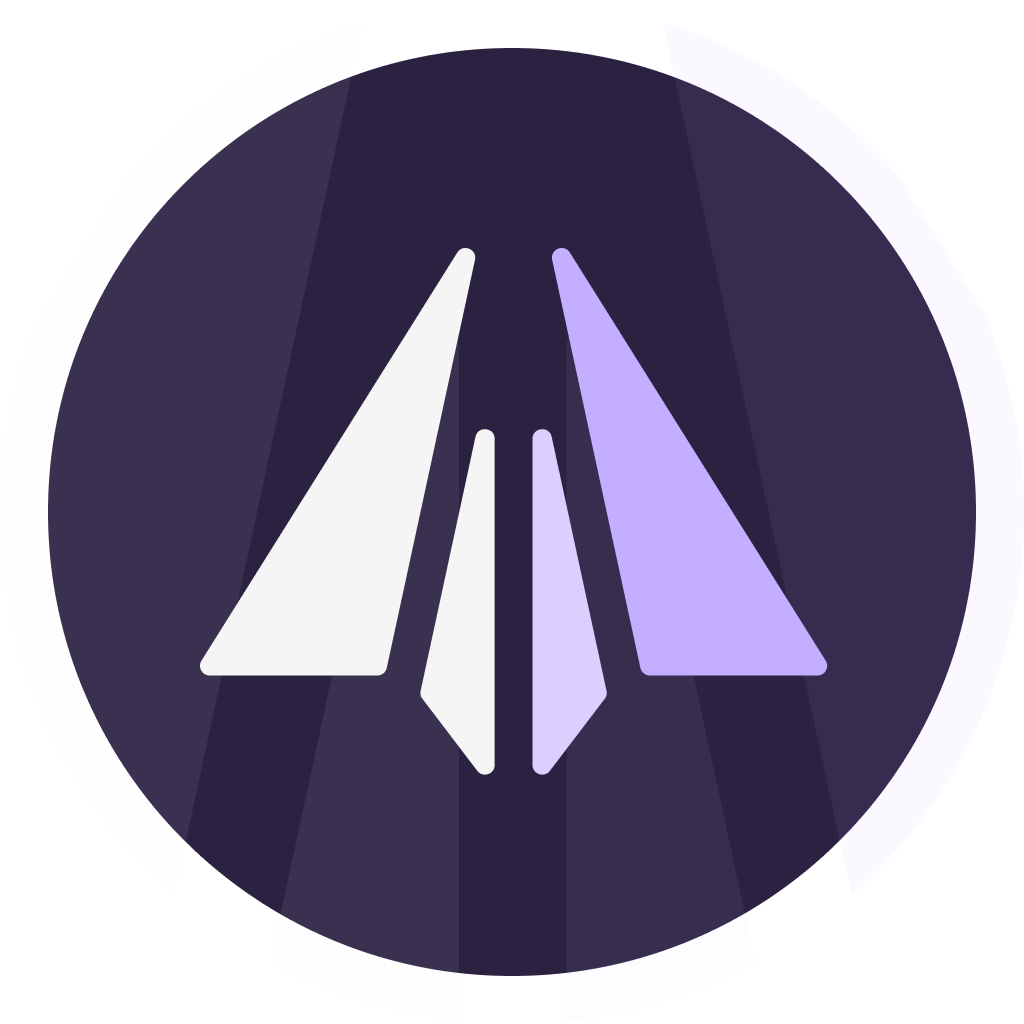
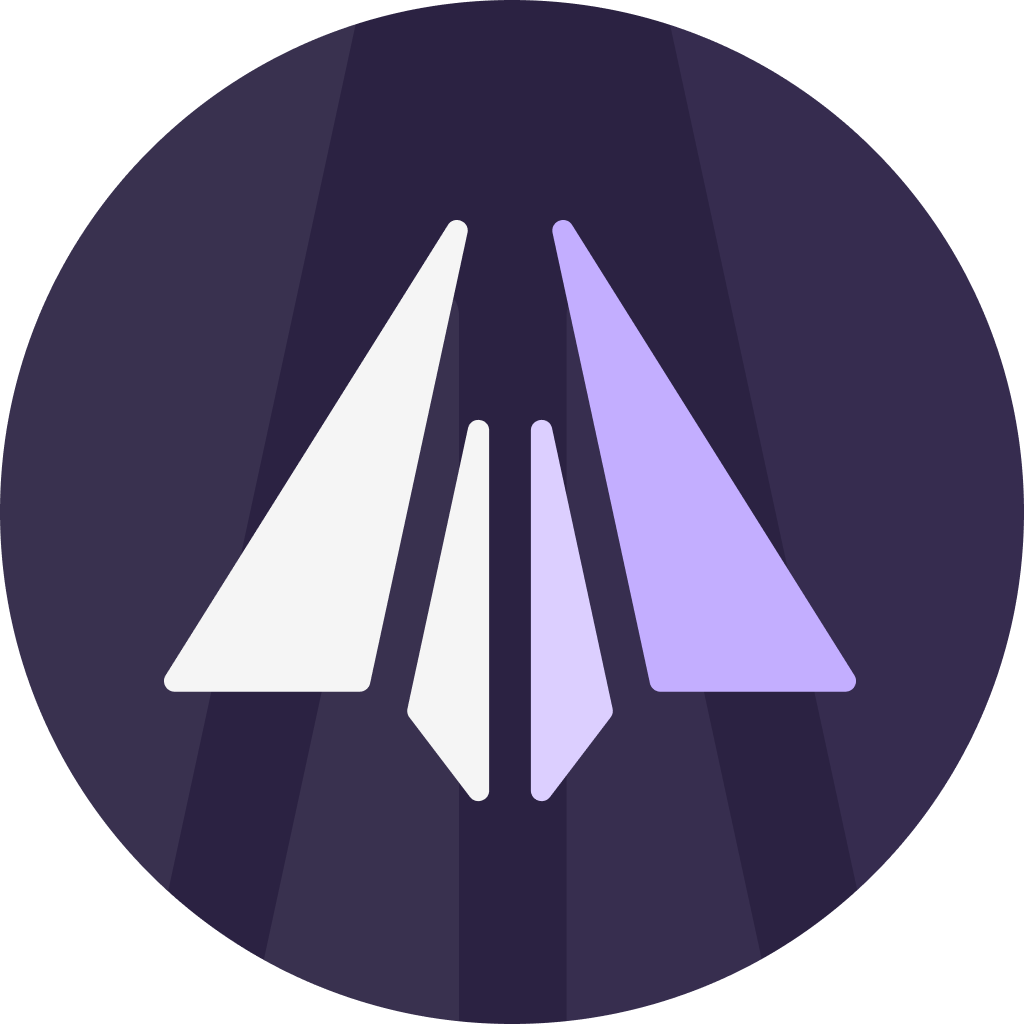
fix: taskbar on Windows fix: more branding fix: smth

diff --git a/Telegram/SourceFiles/ayu/ui/ayu_assets.cpp b/Telegram/SourceFiles/ayu/ui/ayu_assets.cpp
@@ -8,9 +8,25 @@
 #include "ayu_assets.h"
 #include "ayu/ayu_settings.h"
 
-QString LAST_LOADED_NAME;
-QImage LAST_LOADED;
-QImage LAST_LOADED_NO_MARGIN;
+static QString LAST_LOADED_NAME;
+static QImage LAST_LOADED;
+static QImage LAST_LOADED_NO_MARGIN;
+
+void loadAppIco() {
+	auto settings = &AyuSettings::getInstance();
+
+	QString appDataPath = QDir::fromNativeSeparators(qgetenv("APPDATA"));
+	QString tempIconPath = appDataPath + "/AyuGram.ico";
+
+	// workaround for read-only file
+	auto f = QFile(tempIconPath);
+	if (f.exists()) {
+		f.setPermissions(QFile::WriteOther);
+		f.remove();
+	}
+	f.close();
+	QFile::copy(qsl(":/gui/art/ayu/%1/logo256_no_margin.ico").arg(settings->appIcon), tempIconPath);
+}
 
 void loadIcons()
 {
@@ -18,57 +34,25 @@ void loadIcons()
 	if (LAST_LOADED_NAME != settings->appIcon)
 	{
 		LAST_LOADED_NAME = settings->appIcon;
-		if (settings->appIcon == AyuSettings::DEFAULT_ICON)
-		{
-			LAST_LOADED = logo();
-			LAST_LOADED_NO_MARGIN = logoNoMargin();
-		}
-		else if (settings->appIcon == AyuSettings::ALT_ICON)
-		{
-			LAST_LOADED = logoAlt();
-			LAST_LOADED_NO_MARGIN = logoAltNoMargin();
-		}
-		else if (settings->appIcon == AyuSettings::NOTHING_ICON)
-		{
-			LAST_LOADED = logoNothing();
-			LAST_LOADED_NO_MARGIN = logoNothingNoMargin();
-		}
-		else
-		{
-			LAST_LOADED = logo();
-			LAST_LOADED_NO_MARGIN = logoNoMargin();
-		}
+
+		LAST_LOADED = QImage(qsl(":/gui/art/ayu/%1/logo256.png").arg(settings->appIcon));
+		LAST_LOADED_NO_MARGIN = QImage(qsl(":/gui/art/ayu/%1/logo256_no_margin.png").arg(settings->appIcon));
 	}
 }
 
-QImage logo()
+QImage logoPreview()
 {
-	return QImage(qsl(":/gui/art/logo_256.png"));
+	return QImage(qsl(":/gui/art/ayu/default/logo256.png"));
 }
 
-QImage logoNoMargin()
-{
-	return QImage(qsl(":/gui/art/logo_256_no_margin.png"));
-}
-
-QImage logoAlt()
+QImage logoAltPreview()
 {
 	return QImage(qsl(":/gui/art/ayu/alt/logo256.png"));
 }
 
-QImage logoAltNoMargin()
-{
-	return QImage(qsl(":/gui/art/ayu/alt/logo256_no_margin.png"));
-}
-
-QImage logoNothing()
+QImage logoNothingPreview()
 {
 	return QImage(qsl(":/gui/art/ayu/nothing/logo256.png"));
-}
-
-QImage logoNothingNoMargin()
-{
-	return QImage(qsl(":/gui/art/ayu/nothing/logo256_no_margin.png"));
 }
 
 QString currentAppLogoName()

diff --git a/Telegram/SourceFiles/ayu/ui/settings/icon_picker.cpp b/Telegram/SourceFiles/ayu/ui/settings/icon_picker.cpp
@@ -9,12 +9,17 @@
 #include "ayu/ayu_settings.h"
 #include "core/application.h"
 #include "styles/style_layers.h"
+#include "tray.h"
 
 #include "ayu/ui/ayu_assets.h"
 #include "main/main_domain.h"
 #include "styles/style_ayu_styles.h"
 #include "ui/painter.h"
 #include "window/main_window.h"
+
+#ifdef Q_OS_WIN
+#include "ayu/utils/windows_utils.h"
+#endif
 
 void drawIcon(QPainter& p, const QImage& icon, int offset, bool selected)
 {
@@ -40,9 +45,9 @@ void IconPicker::paintEvent(QPaintEvent* e)
 	Painter p(this);
 	PainterHighQualityEnabler hq(p);
 
-	auto icon1 = logo().scaled(64, 64, Qt::KeepAspectRatio, Qt::SmoothTransformation);
-	auto icon2 = logoAlt().scaled(64, 64, Qt::KeepAspectRatio, Qt::SmoothTransformation);
-	auto icon3 = logoNothing().scaled(64, 64, Qt::KeepAspectRatio, Qt::SmoothTransformation);
+	auto icon1 = logoPreview().scaled(64, 64, Qt::KeepAspectRatio, Qt::SmoothTransformation);
+	auto icon2 = logoAltPreview().scaled(64, 64, Qt::KeepAspectRatio, Qt::SmoothTransformation);
+	auto icon3 = logoNothingPreview().scaled(64, 64, Qt::KeepAspectRatio, Qt::SmoothTransformation);
 
 	// todo: center
 	drawIcon(p, icon1, 0, currentAppLogoName() == AyuSettings::DEFAULT_ICON);
@@ -76,8 +81,14 @@ void IconPicker::mousePressEvent(QMouseEvent* e)
 	{
 		AyuSettings::save();
 
+#ifdef Q_OS_WIN
+		loadAppIco();
+		reloadAppIconFromTaskBar();
+#endif
+
 		Window::OverrideApplicationIcon(currentAppLogo());
 		Core::App().refreshApplicationIcon();
+		Core::App().tray().updateIconCounters();
 		Core::App().domain().notifyUnreadBadgeChanged();
 
 		repaint();

diff --git a/Telegram/SourceFiles/ayu/utils/windows_utils.cpp b/Telegram/SourceFiles/ayu/utils/windows_utils.cpp
@@ -1,0 +1,46 @@
+// This is the source code of AyuGram for Desktop.
+//
+// We do not and cannot prevent the use of our code,
+// but be respectful and credit the original author.
+//
+// Copyright @Radolyn, 2023
+#include "windows_utils.h"
+
+#include <ShlObj_core.h>
+
+void reloadAppIconFromTaskBar() {
+	QString appdata = QDir::fromNativeSeparators(qgetenv("APPDATA"));
+	QString ayugramIconPath = appdata + "/AyuGram.ico";
+
+	QString shortcut = appdata + "/Microsoft/Internet Explorer/Quick Launch/User Pinned/TaskBar/AyuGram Desktop.lnk";
+	if (!QFile::exists(shortcut)) {
+		shortcut = appdata + "/Microsoft/Internet Explorer/Quick Launch/User Pinned/TaskBar/AyuGram.lnk";
+	}
+
+	if (QFile::exists(shortcut)) {
+		IShellLink *pShellLink = NULL;
+		IPersistFile *pPersistFile = NULL;
+
+		HRESULT hr = CoCreateInstance(CLSID_ShellLink, NULL, CLSCTX_INPROC_SERVER, IID_IShellLink,
+		                              (void **) &pShellLink);
+		if (SUCCEEDED(hr)) {
+			hr = pShellLink->QueryInterface(IID_IPersistFile, (void **) &pPersistFile);
+			if (SUCCEEDED(hr)) {
+				WCHAR wszShortcutPath[MAX_PATH];
+				shortcut.toWCharArray(wszShortcutPath);
+				wszShortcutPath[shortcut.length()] = '\0';
+
+				if (SUCCEEDED(pPersistFile->Load(wszShortcutPath, STGM_READWRITE))) {
+					pShellLink->SetIconLocation(ayugramIconPath.toStdWString().c_str(), 0);
+					pPersistFile->Save(wszShortcutPath, TRUE);
+				}
+
+				pPersistFile->Release();
+			}
+
+			pShellLink->Release();
+		}
+
+		SHChangeNotify(SHCNE_ASSOCCHANGED, SHCNF_IDLIST, NULL, NULL);
+	}
+}

diff --git a/Telegram/SourceFiles/platform/win/windows_app_user_model_id.cpp b/Telegram/SourceFiles/platform/win/windows_app_user_model_id.cpp
@@ -19,11 +19,9 @@ namespace Platform {
 namespace AppUserModelId {
 namespace {
 
-constexpr auto kMaxFileLen = MAX_PATH * 2;
-
-const PROPERTYKEY pkey_AppUserModel_ID = { { 0x9F4C2855, 0x9F79, 0x4B39, { 0xA8, 0xD0, 0xE1, 0xD4, 0x2D, 0xE1, 0xD5, 0xF3 } }, 5 };
-const PROPERTYKEY pkey_AppUserModel_StartPinOption = { { 0x9F4C2855, 0x9F79, 0x4B39, { 0xA8, 0xD0, 0xE1, 0xD4, 0x2D, 0xE1, 0xD5, 0xF3 } }, 12 };
-const PROPERTYKEY pkey_AppUserModel_ToastActivator = { { 0x9F4C2855, 0x9F79, 0x4B39, { 0xA8, 0xD0, 0xE1, 0xD4, 0x2D, 0xE1, 0xD5, 0xF3 } }, 26 };
+const PROPERTYKEY pkey_AppUserModel_ID = { { 0x9F4C2666, 0x9F79, 0x4B39, { 0xA8, 0xD0, 0xE1, 0xD4, 0x2D, 0xE1, 0xD5, 0xF3 } }, 5 };
+const PROPERTYKEY pkey_AppUserModel_StartPinOption = { { 0x9F4C2666, 0x9F79, 0x4B39, { 0xA8, 0xD0, 0xE1, 0xD4, 0x2D, 0xE1, 0xD5, 0xF3 } }, 12 };
+const PROPERTYKEY pkey_AppUserModel_ToastActivator = { { 0x9F4C2666, 0x9F79, 0x4B39, { 0xA8, 0xD0, 0xE1, 0xD4, 0x2D, 0xE1, 0xD5, 0xF3 } }, 26 };
 
 #ifdef OS_WIN_STORE
 const WCHAR AppUserModelIdBase[] = L"Telegram.TelegramDesktop.Store";

diff --git a/Telegram/SourceFiles/intro/intro_step.cpp b/Telegram/SourceFiles/intro/intro_step.cpp
@@ -39,6 +39,10 @@ https://github.com/telegramdesktop/tdesktop/blob/master/LEGAL
 #include "styles/style_intro.h"
 #include "styles/style_window.h"
 
+// AyuGram includes
+#include "ayu/ui/ayu_assets.h"
+
+
 namespace Intro {
 namespace details {
 namespace {
@@ -469,7 +473,8 @@ void Step::paintCover(QPainter &p, int top) {
 		planeLeft += deltaLeft;
 	//	planeTop += top;
 	}
-	st::introCoverIcon.paint(p, planeLeft, planeTop, width());
+	const auto ayuGramIcon = Ui::PixmapFromImage(currentAppLogo());
+	QIcon(ayuGramIcon).paint(&p, QRect(width() / 2 - ayuGramIcon.width() / 2, planeTop - 16, ayuGramIcon.width(), st::introCoverIcon.height()));
 }
 
 int Step::contentLeft() const {

diff --git a/Telegram/SourceFiles/platform/win/tray_win.cpp b/Telegram/SourceFiles/platform/win/tray_win.cpp
@@ -30,6 +30,7 @@ https://github.com/telegramdesktop/tdesktop/blob/master/LEGAL
 
 // AyuGram includes
 #include "ayu/ui/ayu_assets.h"
+#include "ui/painter.h"
 
 
 namespace Platform {
@@ -170,7 +171,8 @@ bool DarkTasbarValueValid/* = false*/;
 		return Window::WithSmallCounter(std::move(result), std::move(args));
 	}
 	QPainter p(&result);
-	const auto half = args.size / 2;
+	PainterHighQualityEnabler hq(p); // AyuGram: fix for lq icons
+	const auto half = d.size / 2;
 	args.size = half;
 	p.drawPixmap(
 		half,

diff --git a/Telegram/SourceFiles/ayu/utils/windows_utils.h b/Telegram/SourceFiles/ayu/utils/windows_utils.h
@@ -4,15 +4,6 @@
 // but be respectful and credit the original author.
 //
 // Copyright @Radolyn, 2023
-
 #pragma once
 
-void loadAppIco();
-
-QImage logoPreview();
-QImage logoAltPreview();
-QImage logoNothingPreview();
-
-QString currentAppLogoName();
-QImage currentAppLogo();
-QImage currentAppLogoNoMargin();
+void reloadAppIconFromTaskBar();

diff --git a/Telegram/SourceFiles/window/window_main_menu.cpp b/Telegram/SourceFiles/window/window_main_menu.cpp
@@ -395,8 +395,8 @@ MainMenu::MainMenu(
 	parentResized();
 
 	_telegram->setMarkedText(Ui::Text::Link(
-		u"Telegram Desktop"_q,
-		u"https://desktop.telegram.org"_q));
+		u"AyuGram Desktop"_q,
+		u"https://ayugram.one"_q));
 	_telegram->setLinksTrusted();
 	_version->setMarkedText(
 		Ui::Text::Link(

diff --git a/Telegram/SourceFiles/intro/intro_start.cpp b/Telegram/SourceFiles/intro/intro_start.cpp
@@ -25,7 +25,7 @@ StartWidget::StartWidget(
 : Step(parent, account, data, true) {
 	setMouseTracking(true);
 	setTitleText(rpl::single(u"AyuGram Desktop"_q));
-	setDescriptionText(tr::lng_intro_about());
+	setDescriptionText(tr::ayu_IntroAbout());
 	show();
 }
 
